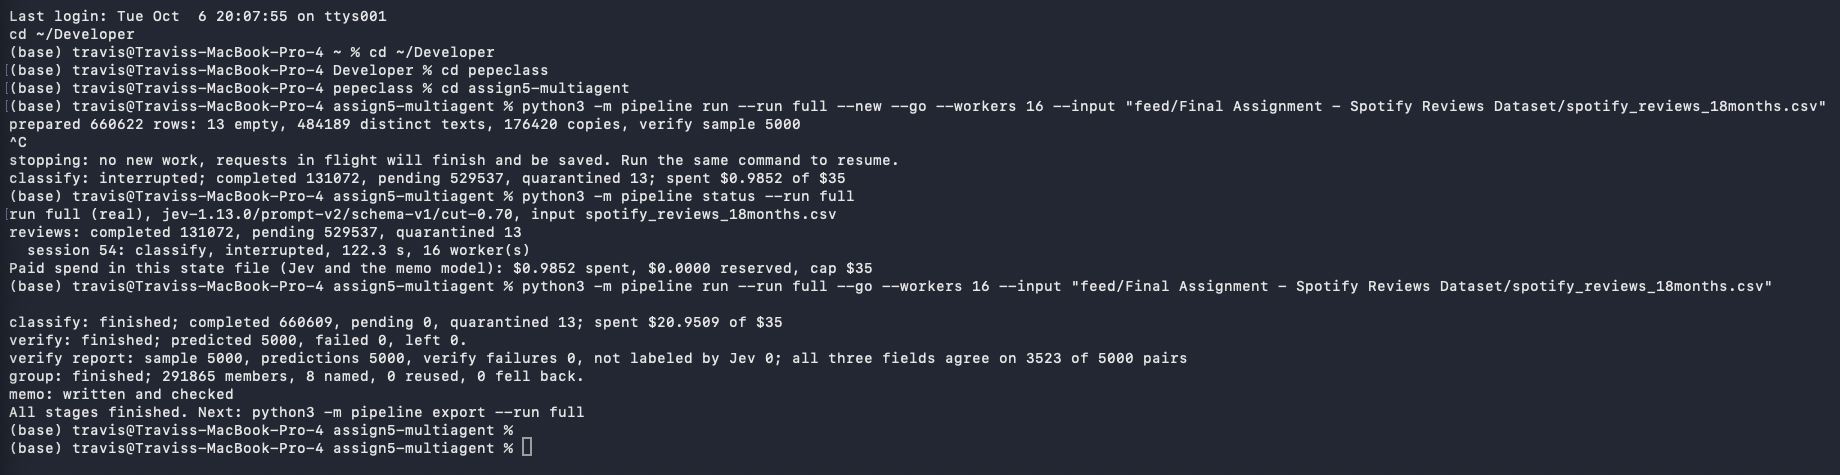
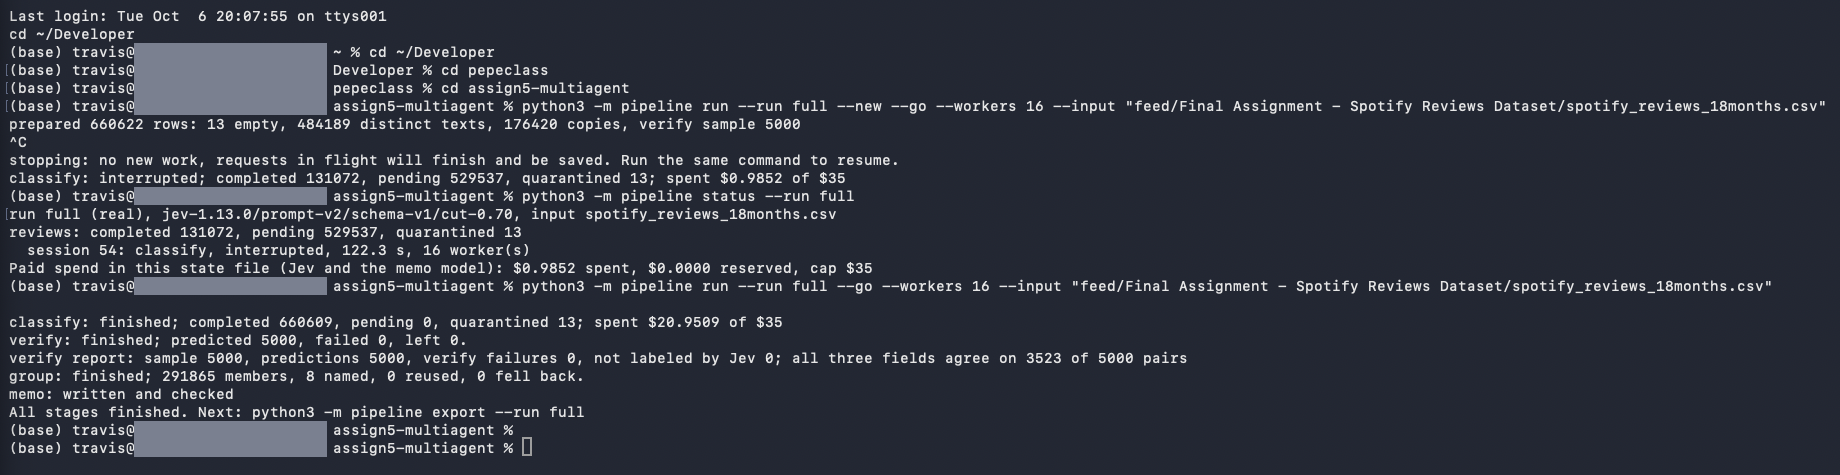
Home paths and the laptop's name out of the tracked files; MIT license
The repo is public. Thirteen lines held a home-folder path and a pasted
terminal session and its screenshot showed the laptop's name.

- docs/independent-spec-review-2026-10-04.md: eight links into the
  reviewer's working folder now point at the same file and line here.
- experiments/2026-10-04: eight scripts find the repo from their own
  place; each new value equals the old one on the machine they ran on.
- runs/full/run_full_text.txt: the machine's name reads [laptop].
- runs/full/run_full_screenshot.png: grey boxes over the name; no pixel
  outside the boxes changed.
- tests/test_personal.py: every tracked file, the gzipped exports
  included, is read for a home path, a machine's name or a prompt with a
  host. A new picture or video fails until it has been looked at.
- LICENSE: MIT for what was written here. The README says it does not
  cover feed/ (the course's) or the review texts (a CC0 dataset).

pipeline/ and prompts/ are untouched: the code hash is still
530c1e237f7c and no result changed. 596 tests, 1 skipped. Validation log
entry 42. The history still holds the earlier copies.

Claude-Session: https://claude.ai/code/session_016Zh4HvXZEvgjAoL9t3BUU7

diff --git a/tests/test_personal.py b/tests/test_personal.py
@@ -1,0 +1,160 @@
+"""Nothing a clone holds names the home folder or the machine the work was done on.
+
+The repo is public. On 2026-10-07 thirteen tracked lines held a home-folder path, eight held the laptop's name in a
+pasted shell prompt, and a screenshot showed that name eight times (validation log entry 42). A picture cannot be
+read here, so the screenshot is held by the hash of the copy that showed the name; the video was checked by eye.
+"""
+
+import gzip
+import hashlib
+import re
+import subprocess
+import unittest
+
+from tests import fixtures
+
+# Written so that this file matches none of them.
+PATTERNS = {
+    "home path": re.compile(rb"/(?:Users|home)/[A-Za-z0-9._-]+/"),
+    "machine name": re.compile(
+        rb"[A-Za-z0-9]+-(?:MacBook|iMac|Mac-mini|Mac-Studio|Mac-Pro)\b"
+    ),
+    "shell prompt with a host": re.compile(
+        rb"^(?:\([^)\n]*\) )?[a-z_][a-z0-9_-]*@[A-Za-z0-9][A-Za-z0-9.-]*[: ]\S* ?[%$#](?: |$)",
+        re.M,
+    ),
+}
+# The compressed exports are hundreds of megabytes unpacked, so they get a plain search for the fixed part of each shape.
+NEEDLES = tuple(b"/" + part for part in (b"Users/", b"home/")) + (
+    b"-Mac" + b"Book",
+    b"-iM" + b"ac",
+)
+UNREAD = (".png", ".mov")  # pictures and video: see the module's first lines
+SCREENSHOT_THAT_SHOWED_THE_NAME = (
[1 lines of base64/hex data omitted]
+)
+
+
+def hits(data):
+    """(line number, kind) for every match in a file's bytes."""
+    return sorted(
+        (data.count(b"\n", 0, m.start()) + 1, kind)
+        for kind, pattern in PATTERNS.items()
+        for m in pattern.finditer(data)
+    )
+
+
+def tracked():
+    """{path: blob ID} for every file a clone would hold. Two paths with the same bytes share a blob ID."""
+    out = subprocess.run(
+        ["git", "-C", str(fixtures.ROOT), "ls-files", "-s", "-z"],
+        capture_output=True,
+        check=True,
+    ).stdout
+    files = {}
+    for entry in out.split(b"\0"):
+        if entry:
+            meta, path = entry.split(b"\t", 1)
+            files[path.decode("utf-8")] = meta.split()[1].decode("ascii")
+    return files
+
+
+class Detector(unittest.TestCase):
+    """The scan below reports nothing when it works, so it is first shown to see each shape."""
+
+    def test_each_shape_is_seen(self):
+        someone = "/" + "Users" + "/someone/Developer/x.py"
+        linux = "/" + "home" + "/someone/x.py"
+        mac = "Someones" + "-MacBook" + "-Pro-2"
+        for text, kinds in (
+            (f'DATA = "{someone}"', ["home path"]),
+            (f"see {linux}:12", ["home path"]),
+            (f"host {mac}.local", ["machine name"]),
+            (
+                f"(base) someone@{mac} repo % ls",
+                ["machine name", "shell prompt with a host"],
+            ),
+            ("someone@devbox:~/repo$ ls", ["shell prompt with a host"]),
+        ):
+            with self.subTest(text=text[:30]):
+                self.assertEqual(sorted(kind for _, kind in hits(text.encode())), kinds)
+                self.assertTrue(
+                    any(n in text.encode() for n in NEEDLES)
+                    or kinds == ["shell prompt with a host"]
+                )
+
+    def test_the_line_number_is_the_line_of_the_match(self):
+        text = "one\ntwo\n" + "/" + "Users" + "/someone/x\nfour\n"
+        self.assertEqual(hits(text.encode()), [(3, "home path")])
+
+    def test_ordinary_lines_are_not_flagged(self):
+        for text in (
+            "(base) someone@[laptop] repo % ls",  # the prompt as the terminal text now shows it
+            "[checker](<../feed/check_submission.py#L369>)",
+            'self.assertNotIn("/Users/", text)',
+            "only on iphones and MacBooks, for Android",
+            "fills a MacBook 16 inch window",
+            "git@github.com:someone/repo.git`, private until",
+            "Co-Authored-By: Someone <noreply@example.com>",
+            "$ python3 -m pipeline run --run demo-100b --go",
+        ):
+            with self.subTest(text=text[:30]):
+                self.assertEqual(hits(text.encode()), [])
+
+
+class Clone(unittest.TestCase):
+    @classmethod
+    def setUpClass(cls):
+        cls.files = tracked()
+
+    def test_no_tracked_text_file_holds_a_home_path_a_machine_name_or_a_prompt_with_a_host(
+        self,
+    ):
+        found, read = [], 0
+        for path in sorted(self.files):
+            if path.endswith(UNREAD + (".gz",)):
+                continue
+            read += 1
+            found += [
+                f"{path}:{line} {kind}"
+                for line, kind in hits((fixtures.ROOT / path).read_bytes())
+            ]
+        self.assertGreater(read, 300, "the scan read too few files to mean anything")
+        self.assertIn("runs/full/run_full_text.txt", self.files)
+        self.assertEqual(found, [])
+
+    def test_the_compressed_exports_hold_none_either(self):
+        blobs = {
+            blob: path
+            for path, blob in sorted(self.files.items(), reverse=True)
+            if path.endswith(".gz")
+        }
+        self.assertGreaterEqual(len(blobs), 3)
+        keep = max(len(n) for n in NEEDLES) - 1
+        for path in sorted(blobs.values()):
+            tail, size, found = b"", 0, set()
+            with gzip.GzipFile(fixtures.ROOT / path) as f:
+                while chunk := f.read(1 << 24):
+                    size += len(chunk)
+                    found |= {n.decode() for n in NEEDLES if n in tail + chunk}
+                    tail = chunk[-keep:]
+            with self.subTest(path=path):
+                self.assertGreater(size, 1 << 20, "an export this small was not read")
+                self.assertEqual(found, set())
+
+    def test_the_only_tracked_pictures_and_video_are_the_two_checked_by_eye(self):
+        """A new picture or video is not covered by anything here until someone looks at it and lists it."""
+        self.assertEqual(
+            sorted(p for p in self.files if p.endswith(UNREAD)),
+            ["runs/demo-100b/stop_resume.mov", "runs/full/run_full_screenshot.png"],
+        )
+
+    def test_the_screenshot_is_not_the_copy_that_showed_the_machine_name(self):
+        digest = hashlib.sha256(
+            (fixtures.ROOT / "runs/full/run_full_screenshot.png").read_bytes()
+        ).hexdigest()
+        self.assertNotEqual(digest, SCREENSHOT_THAT_SHOWED_THE_NAME)
+
+
+if __name__ == "__main__":
+    unittest.main()

diff --git a/tests/test_readme.py b/tests/test_readme.py
@@ -53,6 +53,16 @@ class Readme(unittest.TestCase):
                 self.assertNotIn("/Users/", text)
                 self.assertNotIn("/home/", text)
 
+    def test_the_license_the_readme_names_is_the_file_at_the_root_and_the_course_material_is_left_out(self):
+        text = (fixtures.ROOT / "LICENSE").read_text(encoding="utf-8")
+        self.assertEqual(text.splitlines()[0], "MIT License")
+        self.assertIn("Copyright (c) 2026 Travis Fraser", text)
+        self.assertIn("Permission is hereby granted, free of charge, to any person obtaining a copy", text)
+        section = (fixtures.ROOT / "README.md").read_text(encoding="utf-8").split("\n## License\n", 1)[1].split("\n## ", 1)[0]
+        self.assertIn("[MIT](LICENSE)", section)
+        self.assertIn("[`feed/`](feed/)", section)  # the course's files are not the author's to license
+        self.assertNotIn("No license chosen", section)
+
     def test_the_readme_states_the_test_count_the_suite_reports(self):
         text = (fixtures.ROOT / "README.md").read_text(encoding="utf-8")
         stated = int(re.search(r"Ran (\d+) tests", text).group(1))

diff --git a/experiments/2026-10-04/red-team/stats/e4_golden_proxy.py b/experiments/2026-10-04/red-team/stats/e4_golden_proxy.py
@@ -1,8 +1,9 @@
 """E4 extra: ROUGH keyword proxies for every non-'other' topic, in the actual golden 50 and the 10,000 dev sample.
 A keyword hit is a mention, not a primary-topic label. Read-only."""
 import csv, sys
+from pathlib import Path
 csv.field_size_limit(sys.maxsize)
-D = "/Users/travis/Developer/pepeclass/assign5-multiagent/feed/Final Assignment - Spotify Reviews Dataset/"
+D = str(Path(__file__).resolve().parents[4] / "feed/Final Assignment - Spotify Reviews Dataset") + "/"
 def load(fn):
     with open(D + fn, newline="", encoding="utf-8") as f:
         return list(csv.DictReader(f))

diff --git a/experiments/2026-10-04/tool-choice/speed_test.py b/experiments/2026-10-04/tool-choice/speed_test.py
@@ -12,9 +12,10 @@ import time
 import urllib.request
 from collections import Counter
 from concurrent.futures import ThreadPoolExecutor
+from pathlib import Path
 
 URL = "http://localhost:1234/v1/chat/completions"
-SRC = "/Users/travis/Developer/pepeclass/assign5-multiagent/feed/Final Assignment - Spotify Reviews Dataset/analysis_10000.csv"
+SRC = str(Path(__file__).resolve().parents[3] / "feed/Final Assignment - Spotify Reviews Dataset/analysis_10000.csv")
 TOPICS = [
     "access",
     "usability",

diff --git a/experiments/2026-10-04/red-team/checker/harness.py b/experiments/2026-10-04/red-team/checker/harness.py
@@ -19,7 +19,7 @@ from decimal import Decimal, ROUND_HALF_UP
 from pathlib import Path
 
 SCRATCH = Path(__file__).resolve().parent
-CHECKER_DIR = "/Users/travis/Developer/pepeclass/assign5-multiagent/feed/Final Assignment - Spotify Reviews Dataset"
+CHECKER_DIR = str(Path(__file__).resolve().parents[4] / "feed/Final Assignment - Spotify Reviews Dataset")
 CHECKER = CHECKER_DIR + "/check_submission.py"
 PY = "/opt/homebrew/bin/python3"
 sys.path.insert(0, CHECKER_DIR)

diff --git a/experiments/2026-10-04/red-team/data/common.py b/experiments/2026-10-04/red-team/data/common.py
@@ -2,10 +2,11 @@
 
 import csv
 import sys
+from pathlib import Path
 
 csv.field_size_limit(sys.maxsize)
 
-DATA = "/Users/travis/Developer/pepeclass/assign5-multiagent/feed/Final Assignment - Spotify Reviews Dataset"
+DATA = str(Path(__file__).resolve().parents[4] / "feed/Final Assignment - Spotify Reviews Dataset")
 FULL = DATA + "/spotify_reviews_18months.csv"
 FIELDS = [
     "review_id",

diff --git a/experiments/2026-10-04/red-team/stats/e4_e6_data.py b/experiments/2026-10-04/red-team/stats/e4_e6_data.py
@@ -5,9 +5,10 @@ import math
 import random
 import statistics
 import sys
+from pathlib import Path
 
 csv.field_size_limit(sys.maxsize)
-D = "/Users/travis/Developer/pepeclass/assign5-multiagent/feed/Final Assignment - Spotify Reviews Dataset/"
+D = str(Path(__file__).resolve().parents[4] / "feed/Final Assignment - Spotify Reviews Dataset") + "/"
 
 
 def load(fn):

diff --git a/experiments/2026-10-04/red-team/stats/e6_extra.py b/experiments/2026-10-04/red-team/stats/e6_extra.py
@@ -4,9 +4,10 @@ import csv
 import random
 import statistics
 import sys
+from pathlib import Path
 
 csv.field_size_limit(sys.maxsize)
-D = "/Users/travis/Developer/pepeclass/assign5-multiagent/feed/Final Assignment - Spotify Reviews Dataset/"
+D = str(Path(__file__).resolve().parents[4] / "feed/Final Assignment - Spotify Reviews Dataset") + "/"
 
 
 def load(fn):

diff --git a/experiments/2026-10-04/tool-choice/jev_spike.py b/experiments/2026-10-04/tool-choice/jev_spike.py
@@ -20,7 +20,7 @@ import urllib.error
 import urllib.request
 from pathlib import Path
 
-ROOT = Path("/Users/travis/Developer/pepeclass/assign5-multiagent")
+ROOT = Path(__file__).resolve().parents[3]
 SRC = ROOT / "feed/Final Assignment - Spotify Reviews Dataset/cost_100.csv"
 OUT = Path(__file__).parent
 URL = "https://api.typesafe.ai/v1/systemone"

diff --git a/experiments/2026-10-04/tool-choice/score_spike.py b/experiments/2026-10-04/tool-choice/score_spike.py
@@ -12,7 +12,7 @@ import sys
 from collections import Counter, defaultdict
 from pathlib import Path
 
-ROOT = Path("/Users/travis/Developer/pepeclass/assign5-multiagent")
+ROOT = Path(__file__).resolve().parents[3]
 LABELS = ROOT / "evals/dev_150_labeled.csv"
 HERE = Path(__file__).parent
 TOPICS = [

diff --git a/README.md b/README.md
@@ -19,7 +19,7 @@ Classify   Jev (TypeSafe), jev-1.13.0, one request per distinct review text
 Verify     Gemma 26B, local through LM Studio, blind, on a fixed sample of 5,000
 Name       Gemma 26B, local
 Memo       Claude Sonnet 5.5 (Anthropic API), one call a run
-Tests      588 automated (587 run with no outside network; 1 skipped unless the 97 MB file is present)
+Tests      596 automated (595 run with no outside network; 1 skipped unless the 97 MB file is present)
 Checked    2026-10-07
 ```
 
@@ -293,12 +293,12 @@ See [`.env.example`](.env.example).
 python3 -m unittest discover -s tests -t .
 ```
 
-588 tests: 587 pass with no outside network and no key (two client test files talk to a server on localhost), 1 is skipped unless the 97 MB file is present and `RUN_FULL=1` is set. That one reads the whole file and checks its known counts; it was run once on 2026-10-05 and passed (660,622 rows, 13 empty, 484,189 distinct texts, 159,701 missing app versions).
+596 tests: 595 pass with no outside network and no key (two client test files talk to a server on localhost), 1 is skipped unless the 97 MB file is present and `RUN_FULL=1` is set. That one reads the whole file and checks its known counts; it was run once on 2026-10-05 and passed (660,622 rows, 13 empty, 484,189 distinct texts, 159,701 missing app versions).
 
 ```console
 $ python3 -m unittest discover -s tests -t .
 ----------------------------------------------------------------------
-Ran 588 tests in 18.309s
+Ran 596 tests in 22.407s
 
 OK (skipped=1)
 ```
@@ -323,7 +323,8 @@ OK (skipped=1)
 | `test_evals.py` | The planted cases, the wording trial's holdout guard, the cut-off table, the golden score |
 | `test_trace.py` | The trace of one review equals what each exported file says; a copy is traced to its original's request; a failed attempt is listed; three known answers from the full run |
 | `test_whatif.py` | The severity what-if by hand on a small case, its refusal when the labels do not rebuild the exported ranking, and known answers from the full run |
-| `test_readme.py` | The recorded stop's counts are what its exported files say; every link in the READMEs points at a file a clone would have; the test count stated here is the real one; no run is claimed that has not been made; the memo lines quoted here are lines of the memo; every line the walkthrough shows is printed by its command |
+| `test_personal.py` | No tracked file holds a home-folder path, a machine's name or a pasted shell prompt with a host in it, the gzipped exports included; the screenshot is not the copy that showed the laptop's name |
+| `test_readme.py` | The license named here is the file at the root and leaves the course's material out; The recorded stop's counts are what its exported files say; every link in the READMEs points at a file a clone would have; the test count stated here is the real one; no run is claimed that has not been made; the memo lines quoted here are lines of the memo; every line the walkthrough shows is printed by its command |
 
 **Falsification.** A test that cannot fail proves nothing. In a scratch copy of the repo, never in the working tree, I removed the check that an evidence quote is an exact piece of the review, and ran the label tests:
 
@@ -499,7 +500,7 @@ The recorded handling: a timeout, a 429 or a 5xx puts the review back in the que
   **The 20 misses, read one by one** ([`evals/golden_error_analysis.md`](evals/golden_error_analysis.md); case by case with pass or fail per field in [`evals/golden_cases_full.csv`](evals/golden_cases_full.csv); validation log entry 37). Six are severity one step apart, six sit on a topic boundary the contract draws, three are not in English, three are boycott or political text and two are short or doubtful praise. Read against the contract's wording, 3 are plain Jev errors, 4 are cases where the contract's own example points at Jev's label, 3 carry my fallback label for a language I did not read, and 10 are open. The three plain errors: premium-only controls put in usability where the contract says billing, lost controls read as a playback failure, and "Great..." read as unclear. The reading was made by the AI assistant after the score was saved, with my permission to open the labels; no label and no score changed.
 - **Independent verifier procedure:** [Architecture](#architecture) and `pipeline/verify.py`. Run with the real model at every gate and on the full run: 5,000 blind predictions and 0 failures there ([`runs/full/verify_report.json`](runs/full/verify_report.json)).
 - **Planted errors and injections:** 25 made-up cases with expected answers ([`evals/planted_cases.py`](evals/planted_cases.py)), kept out of every business total. Measured with the probe wording on 2026-10-04: Jev 21 of 25, missing 2 of 4 injections and 2 of 4 boycott slogans. Injections get a test and a reported miss rate, no guard. On 2026-10-05 a wording trial on 34 items measured a new intent wording, [`prompts/enrich-v2.json`](prompts/enrich-v2.json): 4 of 4 planted slogans (the probe wording got 2 of 4) and the outside raters' shared intent on 23 of 28 real boycott reviews (the probe wording 15) ([`evals/wording_trial_out.json`](evals/wording_trial_out.json)). It is now the frozen wording. With it, scored once on 2026-10-05, the planted cases read 22 of 25: contract rules 9 of 9, slogans 4 of 4, non-English 3 of 3, injections 3 of 4 (one injected instruction moved the answer to topic `support`, intent `request`), and text with no letters 3 of 5 ([`evals/holdout_score_prompt-v2.json`](evals/holdout_score_prompt-v2.json), validation log entry 26). A deliberately wrong label is planted in a copy by [`evals/compare_check.py`](evals/compare_check.py), and the verifier's comparison flags each one.
-- **Interruption and resume:** tested with stand-ins: a count stop, Ctrl-C, a hard kill and a simulated sleep, each followed by a resume that sends no completed review again (`tests/test_classify.py`, `tests/test_end_to_end.py`). Every real run was stopped once and resumed with the same command; the full run was stopped by hand with Ctrl-C after 122 seconds, and the checker reads that boundary from the export. The 131,072 reviews completed at the stop are 8,939 finished requests and the 122,133 copies of their texts; that the total is a power of two is chance, and the export rebuilds it (validation log entry 38). The record of it is a screenshot of that terminal session and its text, not a video: [`runs/full/run_full_screenshot.png`](runs/full/run_full_screenshot.png), [`runs/full/run_full_text.txt`](runs/full/run_full_text.txt). The two checkpoint files are [`checkpoint_before.json`](runs/full/grading/checkpoint_before.json) (131,072 completed) and [`checkpoint_after.json`](runs/full/grading/checkpoint_after.json) (660,609). A short recording of a real stop and resume was made on 2026-10-07, on a separate run of the 100-review file (`demo-100b`): [`runs/demo-100b/stop_resume.mov`](runs/demo-100b/stop_resume.mov), 107 seconds, no sound. Ctrl-C after 5.4 seconds left 38 completed and 62 pending. The same command without `--new` sent the other 62 and none of the 38 again, and the checker passed ([`checkpoint_before.json`](runs/demo-100b/grading/checkpoint_before.json), [`checkpoint_after.json`](runs/demo-100b/grading/checkpoint_after.json), [`calls.jsonl`](runs/demo-100b/grading/calls.jsonl), validation log entry 40).
+- **Interruption and resume:** tested with stand-ins: a count stop, Ctrl-C, a hard kill and a simulated sleep, each followed by a resume that sends no completed review again (`tests/test_classify.py`, `tests/test_end_to_end.py`). Every real run was stopped once and resumed with the same command; the full run was stopped by hand with Ctrl-C after 122 seconds, and the checker reads that boundary from the export. The 131,072 reviews completed at the stop are 8,939 finished requests and the 122,133 copies of their texts; that the total is a power of two is chance, and the export rebuilds it (validation log entry 38). The record of it is a screenshot of that terminal session and its text, not a video: [`runs/full/run_full_screenshot.png`](runs/full/run_full_screenshot.png), [`runs/full/run_full_text.txt`](runs/full/run_full_text.txt). The laptop's name in the shell prompt is covered in both; nothing else in them is changed (validation log entry 42). The two checkpoint files are [`checkpoint_before.json`](runs/full/grading/checkpoint_before.json) (131,072 completed) and [`checkpoint_after.json`](runs/full/grading/checkpoint_after.json) (660,609). A short recording of a real stop and resume was made on 2026-10-07, on a separate run of the 100-review file (`demo-100b`): [`runs/demo-100b/stop_resume.mov`](runs/demo-100b/stop_resume.mov), 107 seconds, no sound. Ctrl-C after 5.4 seconds left 38 completed and 62 pending. The same command without `--new` sent the other 62 and none of the 38 again, and the checker passed ([`checkpoint_before.json`](runs/demo-100b/grading/checkpoint_before.json), [`checkpoint_after.json`](runs/demo-100b/grading/checkpoint_after.json), [`calls.jsonl`](runs/demo-100b/grading/calls.jsonl), validation log entry 40).
 - **Every check so far, with its limits:** [`docs/validation-log.md`](docs/validation-log.md).
 
 ### An outside review, and the ranking with severity read lower
@@ -617,7 +618,12 @@ The step that is easy to miss: the prompt wording and the review cut-off are par
 
 ## License
 
-No license chosen yet; all rights reserved by default.
+[MIT](LICENSE), for what was written for this project: the code, the tests, the prompts, the documents and the results.
+
+It does not cover what came from others:
+
+- **Everything under [`feed/`](feed/) is the course's:** the brief, the grading contract, the calculator's specification, the checker, the dataset script and the review samples.
+- **The review texts**, wherever they are stored or quoted in this repo, come from a public Kaggle dataset whose publisher lists it as CC0. The source and its terms are in the dataset's own `README.md` under `feed/`.
 
 ## Contributing
 

diff --git a/docs/validation-log.md b/docs/validation-log.md
@@ -485,6 +485,20 @@ Measured API spend so far: the pipeline's ledger reads $0.1578 after the 500 gat
 - **Evidence:** `experiments/2026-10-07/billing/usage_page_check.py`, `usage_page_check_out.txt` and `jev_calls_by_run.json` (the per-run totals, written from the state file with `--dump`), `cost/rates.csv`. Six tests in `tests/test_billing.py` hold the check: its counts, the full run's row against the committed export, and that it raises when a token or a request is off. 588 tests, 1 skipped.
 - **Limits:** the page was read by eye and typed in; no screenshot is saved. The dollar figure has two decimals, so it separates the two billing rules by dollars but could not show a difference of under a cent. The per-run totals come from a state file that is not committed; a clone can rerun the arithmetic but not the dump. The provider could start billing output tokens at any time, which the conservative case in the calculator allows for.
 
+### 42. Home paths and the laptop's name taken out of the tracked files; a license
+
+- **What:** the repo is public, and entry 38 had counted 13 lines with a home-folder path and a pasted terminal session showing the laptop's name. On 2026-10-07 Travis asked for both to be taken out. A license was added in the same change.
+- **Test first:** `tests/test_personal.py` reads every tracked file for three shapes: a home-folder path, a Mac's default machine name, and a shell prompt with a host in it. Before any change it failed on 13 lines with a path (8 link targets on 5 lines of `docs/independent-spec-review-2026-10-04.md`, and one line in each of 8 scripts under `experiments/2026-10-04/`) and on 8 lines of `runs/full/run_full_text.txt`.
+- **Known answer from another tool:** `git grep` for the path and for the machine's real name, read from the system and not from the repo, gave the same 13 lines and the same 8, and nothing else. The gzipped exports were unpacked and searched: the only hits are two reviews that mention a MacBook.
+- **The pattern test reports nothing when it works,** so it is first shown to see each shape on lines built for it, and to leave eight ordinary lines alone. It fails if it reads fewer than 300 files, and it fails if a picture or video is tracked that is not one of the two looked at below.
+- **What was changed.** In the 2026-10-04 spec review, the eight links into the reviewer's working folder now point at the same file and line in this repo, with a dated note at the top. Each link was checked to reach a tracked file with at least that many lines. In the eight scripts the full path became a path found from the script's own place; on the machine they ran on, each new value equals the old one exactly, checked by code against the committed version. In the terminal text the machine's name became `[laptop]`.
+- **The screenshot** showed the name eight times, in pixels no search can read. Grey boxes now cover it. Outside the eight boxes not one pixel differs from the original, counted over the whole picture; inside them there is one colour. The result was looked at enlarged. A test holds the file to not being the copy with the name, by that copy's hash.
+- **The video** (`runs/demo-100b/stop_resume.mov`) was looked at again, twelve frames across it: a plain `$` prompt and a window title that names the folder and the command. Its file holds no readable name either.
+- **License:** MIT, in `LICENSE`, for what was written here. The README says what it does not cover: everything under `feed/` is the course's, and the review texts come from a dataset its publisher lists as CC0. A test holds the README's license section to the file. Chosen by the assistant on Travis's word that MIT was fine if a license was wanted.
+- **Not touched:** `pipeline/` and `prompts/`, so the code hash is still `530c1e237f7c`. No number in any result changed. No paid call.
+- **Tests:** 8 new, 596 in all, 1 skipped. Each new test was seen to fail before the change it guards. Then fourteen deliberate breaks in a scratch copy, one at a time: a path, a name or a prompt put back, the first screenshot restored, a new picture, a path inside a gzipped export, each pattern made blind or too loose, the license changed. Every one turned its test red, and the unchanged copy passed before and after.
+- **Limits:** this cleans the files, not the history. Every earlier commit on GitHub still holds the paths, the name and the first screenshot, and the commit records carry the author's name and email as git always does. Removing them from history would mean rewriting every commit and changing every commit ID this log and the README cite; that was not done and is Travis's call. The first name in the prompt and in these documents stays: it is in the repo's address. The patterns know Mac machine names and the two usual home folders, so a machine named another way would be caught only inside a pasted prompt. `CLAUDE.md` and `docs/` still hold working notes about how the work was done; they were searched for paths, names and addresses, not reread line by line.
+
 ## Rules adopted because of these checks
 
 - **Label freeze.** A label file is committed and its SHA-256 recorded before model output for its rows is seen. A golden label does not change after the freeze; a plainly wrong one stays and the score is shown both ways.
@@ -495,6 +509,7 @@ Measured API spend so far: the pipeline's ledger reads $0.1578 after the 500 gat
 - **Agreement is not accuracy.** Engine agreement is reported split by complaints against the rest.
 - **A reviewer is given the commit.** The brief asks for the commit to expect, and a clone with no root `grading/` is an old one (entry 39).
 - **A block of terminal output in the README is run by a test**, so it cannot go stale unseen (entry 39).
+- **Nothing tracked names the machine.** A test reads every tracked file for a home-folder path, a machine's name or a pasted prompt with a host, and a new picture or video fails it until someone has looked (entry 42).
 - **Every check carries a known-answer test** where one exists: a count from the manifest, a score that an earlier script already produced, or rows where independent sources already agree.
 
 ## What all of this still does not show
